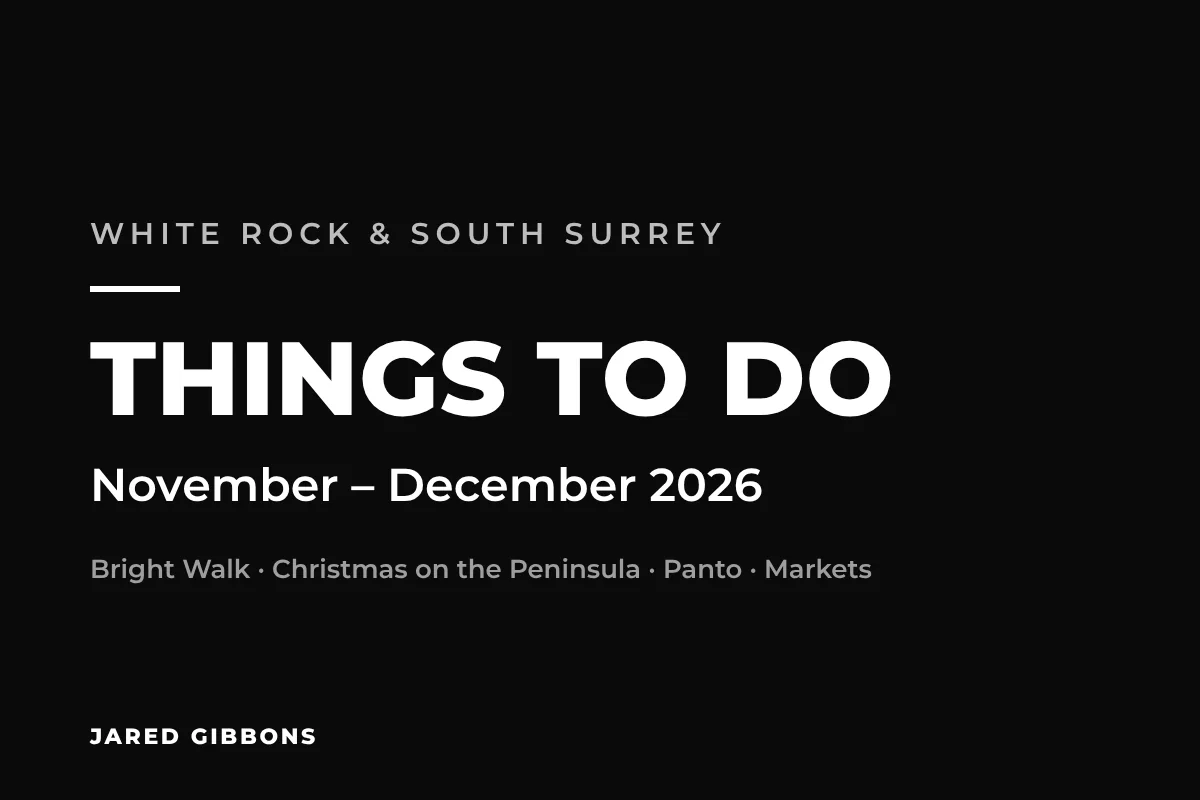
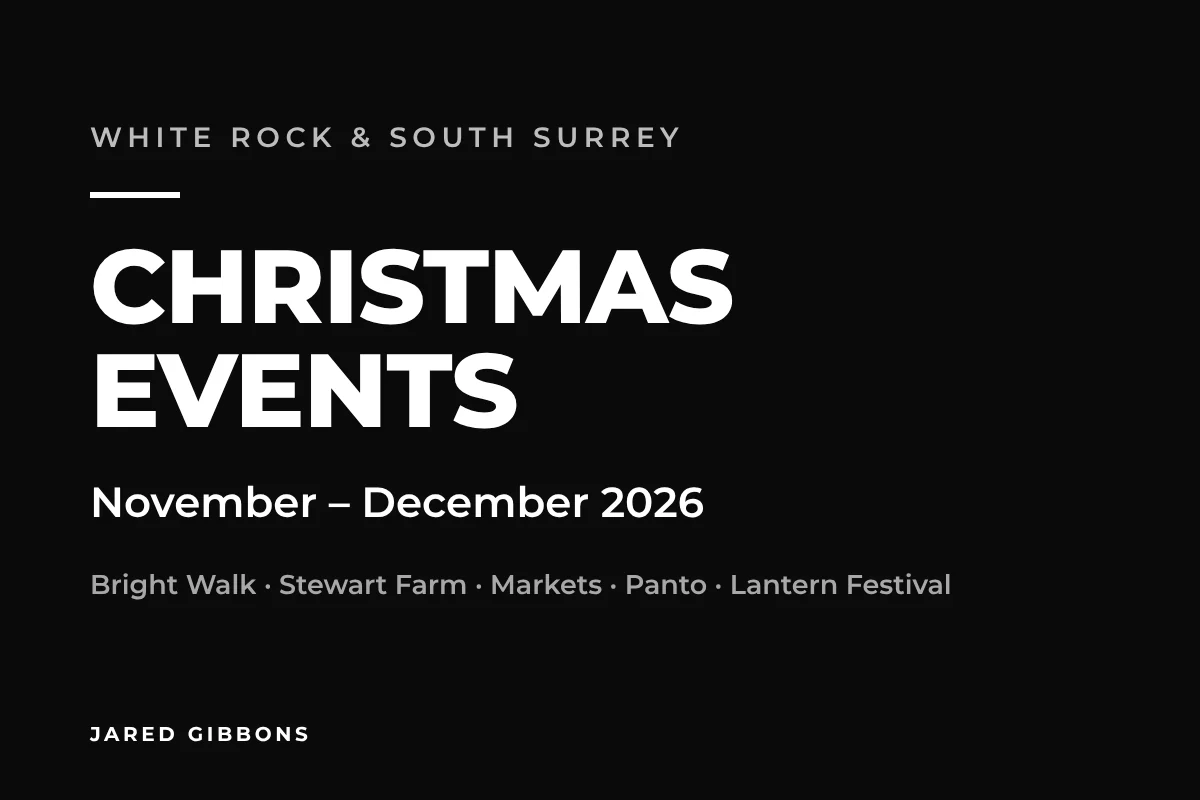
Blog: Peninsula Christmas events post expanded, new EV charging guide (D-356)
Claude-Session: https://claude.ai/code/session_01H2tW4hWYqdE5go3CKK93nK

diff --git a/docs/04-decisions-and-exceptions.md b/docs/04-decisions-and-exceptions.md
@@ -1808,3 +1808,5 @@ Not changed, after checking: the review block intro already says "Excerpts from 
 **D-354 (2026-11-18) Zoning guide: fuller summaries for every zone that can be read, White Rock and City of Langley added, lookup for Chilliwack and Mission.** Jared: "Can you please do this next and finish it?" (1) The 195 zones that carried only the bylaw's one-line intent now say what can be built: homes or main uses, other uses, minimum new lot, and density, lot coverage and height, in metric with imperial in brackets. Read Nov 18 from Surrey's consolidated by-law (59 zones, plus R1 and R2), Abbotsford's online bylaw (57 zones; SSMUH 1, SSMUH 2, SSMUH 3 and TH2 from the City's January 2026 SSMUH Application Guide because their bylaw pages block automated reading), Delta's October 23, 2025 consolidation (57 zones), Maple Ridge RS-2 and Mission RU80s and RR7s. (2) The Township of Langley's four group cards (RM, C, M and P zones) are now 54 cards, one per zone, so an address in any of them gets its own summary; P-2A to P-2R stays one card. The Township residential zones that had only a lot size (R-1A, R-1C, the seven R-CL zones, CRE-1, SR-2, SR-3A, FH-1) are filled in the same way from Section 400 and the s.110.1 table. (3) New guides: White Rock (Zoning Bylaw 2024, No. 2506: 21 general zones and the CD group) and City of Langley (Zoning Bylaw 2025, No. 3300, adopted March 9, 2026: all 20 zones). The guide goes from 278 to 370 zones and from seven to nine municipalities; the lookup links White Rock and City of Langley results to their cards. (4) Address lookup for Chilliwack (the city's map service; the current zone is in its CalcField, the ZONE field still holds 2001 codes) and Mission (the city's zoning layer, the Province's ALR polygons, no lot size because there is no public parcel layer). (5) A card that stands for several zones lists them in `covers`, and a numbered CD zone falls back to the municipality's CD card. Left with a one-line summary: the three CD cards (site-specific by nature), Abbotsford SSMUH 2-g, RHR, UCZ, NCZ and LIZ (pages block automated reading and no other City source covers them) and Delta MUL, MU6 and MU6R (added after the consolidation that could be read). Page title and H1 unchanged; meta description now names White Rock. Sources and raw notes: bylaw links on each card.
 
 **D-355 (2026-11-18) Zoning: Vancouver, Burnaby and Coquitlam in the lookup; Pitt Meadows, Coquitlam and Vancouver guides; audit fixes.** Jared: "you should add vancouver, burnaby, coquitlam, tsawwassen, ladner, delta, mission, pitt meadows, maple ridge, sardis as well", and asked for a review of the Nov 17-18 combined site audit. (1) Lookup: Vancouver (the City's open data API, which is not a map server, so the Worker reshapes its answer), Burnaby and Coquitlam (their map servers), all three with the Province's ALR layer. Tsawwassen and Ladner addresses already resolve to Delta and Sardis to Chilliwack in the Province's geocoder, so they were covered; the page now names them. Pitt Meadows publishes no zoning map data (its map is a vendor app), so it has a guide but no lookup. (2) Guides: Pitt Meadows (Bylaw 2505, revised to Jan 11, 2022: all 37 zones and the CD group, with a note that it predates the 2024 small-scale housing rules), Coquitlam (Bylaw 3000: the eight Part 10 low-density zones in detail, legacy and apartment zones in brief, the rest grouped) and Vancouver (R1-1, R3, R4 and R5 in detail from their schedules; RT, RM, RR, commercial, industrial, historic and CD districts as group cards with `covers`). 370 to 441 zones, 9 to 12 municipalities. Not done: a Burnaby guide (the City's 2026 district guides need Jared to approve a web-access prompt, so Burnaby results show the zone code without a summary), and the urban residential zones of Maple Ridge, Mission and Chilliwack (their guides still cover farm and rural zones only). (3) Audit, fixed because true: in-article headings rendered at paragraph size (two competing .pg__h rules; now 1.25rem, h2 up to 1.75rem), guide panel headings (.pc__h) smaller than body text, breadcrumb links 16px tall on phones, the market ticker asking for an unloaded font weight, "rental voidness" (Central Park page) and "rezonable" (16216 20 Avenue post). Checked and left: the #1 claim wording ("by FVREB Medallion Club points" is what Jared supplied; the audit says "MLS points", so it is his call), the darker fine-print greys (more legible than the token), the quick-answer grey, the designed-page type scale, the review quoted as written, the 24 old posts missing from the sitemap (hidden on purpose, D-322), and four external links the audit saw failing (all four load today).
+
+**D-356 (2026-11-18) Two blog posts from links Jared sent: the Peninsula Christmas events post expanded, and a new EV charging guide.** Jared: "go ahead, make sure they are seo friendly and add lots of value." (1) The Nov 13 post "Things to Do in White Rock & South Surrey" already covered holiday events, so it was expanded at the same address instead of adding a second post that would compete with it: new title "White Rock & South Surrey Christmas Events 2026: What's On", a dates-at-a-glance list, sections by type (lights, markets, Historic Stewart Farm, shows, kids), a free-events list and three common questions. Sixteen events were added from the Cloverdale Reporter's Nov 16 listing; the five Historic Stewart Farm events and the Indigenous Christmas Market were checked on surrey.ca, which corrected one date (Homemade Holidays is Dec 12 and 13, not Dec 14 and 15). The rest are credited to the Reporter with a "check before you go" line. (2) New post /blog.html/ev-charging-south-surrey-white-rock-guide: the BC Hydro hub at the Superstore (six 180 kW chargers, Oct 29, 2026 bulletin), the Tesla Supercharger in the same lot, the South Surrey Park and Ride hub, BC Hydro's rates since April 1, 2026, and what a condo or townhome buyer should check (owner requests under the Strata Property Act, majority-vote thresholds since Dec 6, 2023, the electrical planning report due Dec 31, 2026 in Metro Vancouver and the Fraser Valley, and BC Hydro's EV Ready rebates), each linked to its BC Hydro or Province source. The home-charger rebate amount is left out because the only figure found dates from December 2023. Both posts get black title cards in the Nov 13 style. The Langley "Live Here, Shop Here" piece was an advertising feature and was not used.
